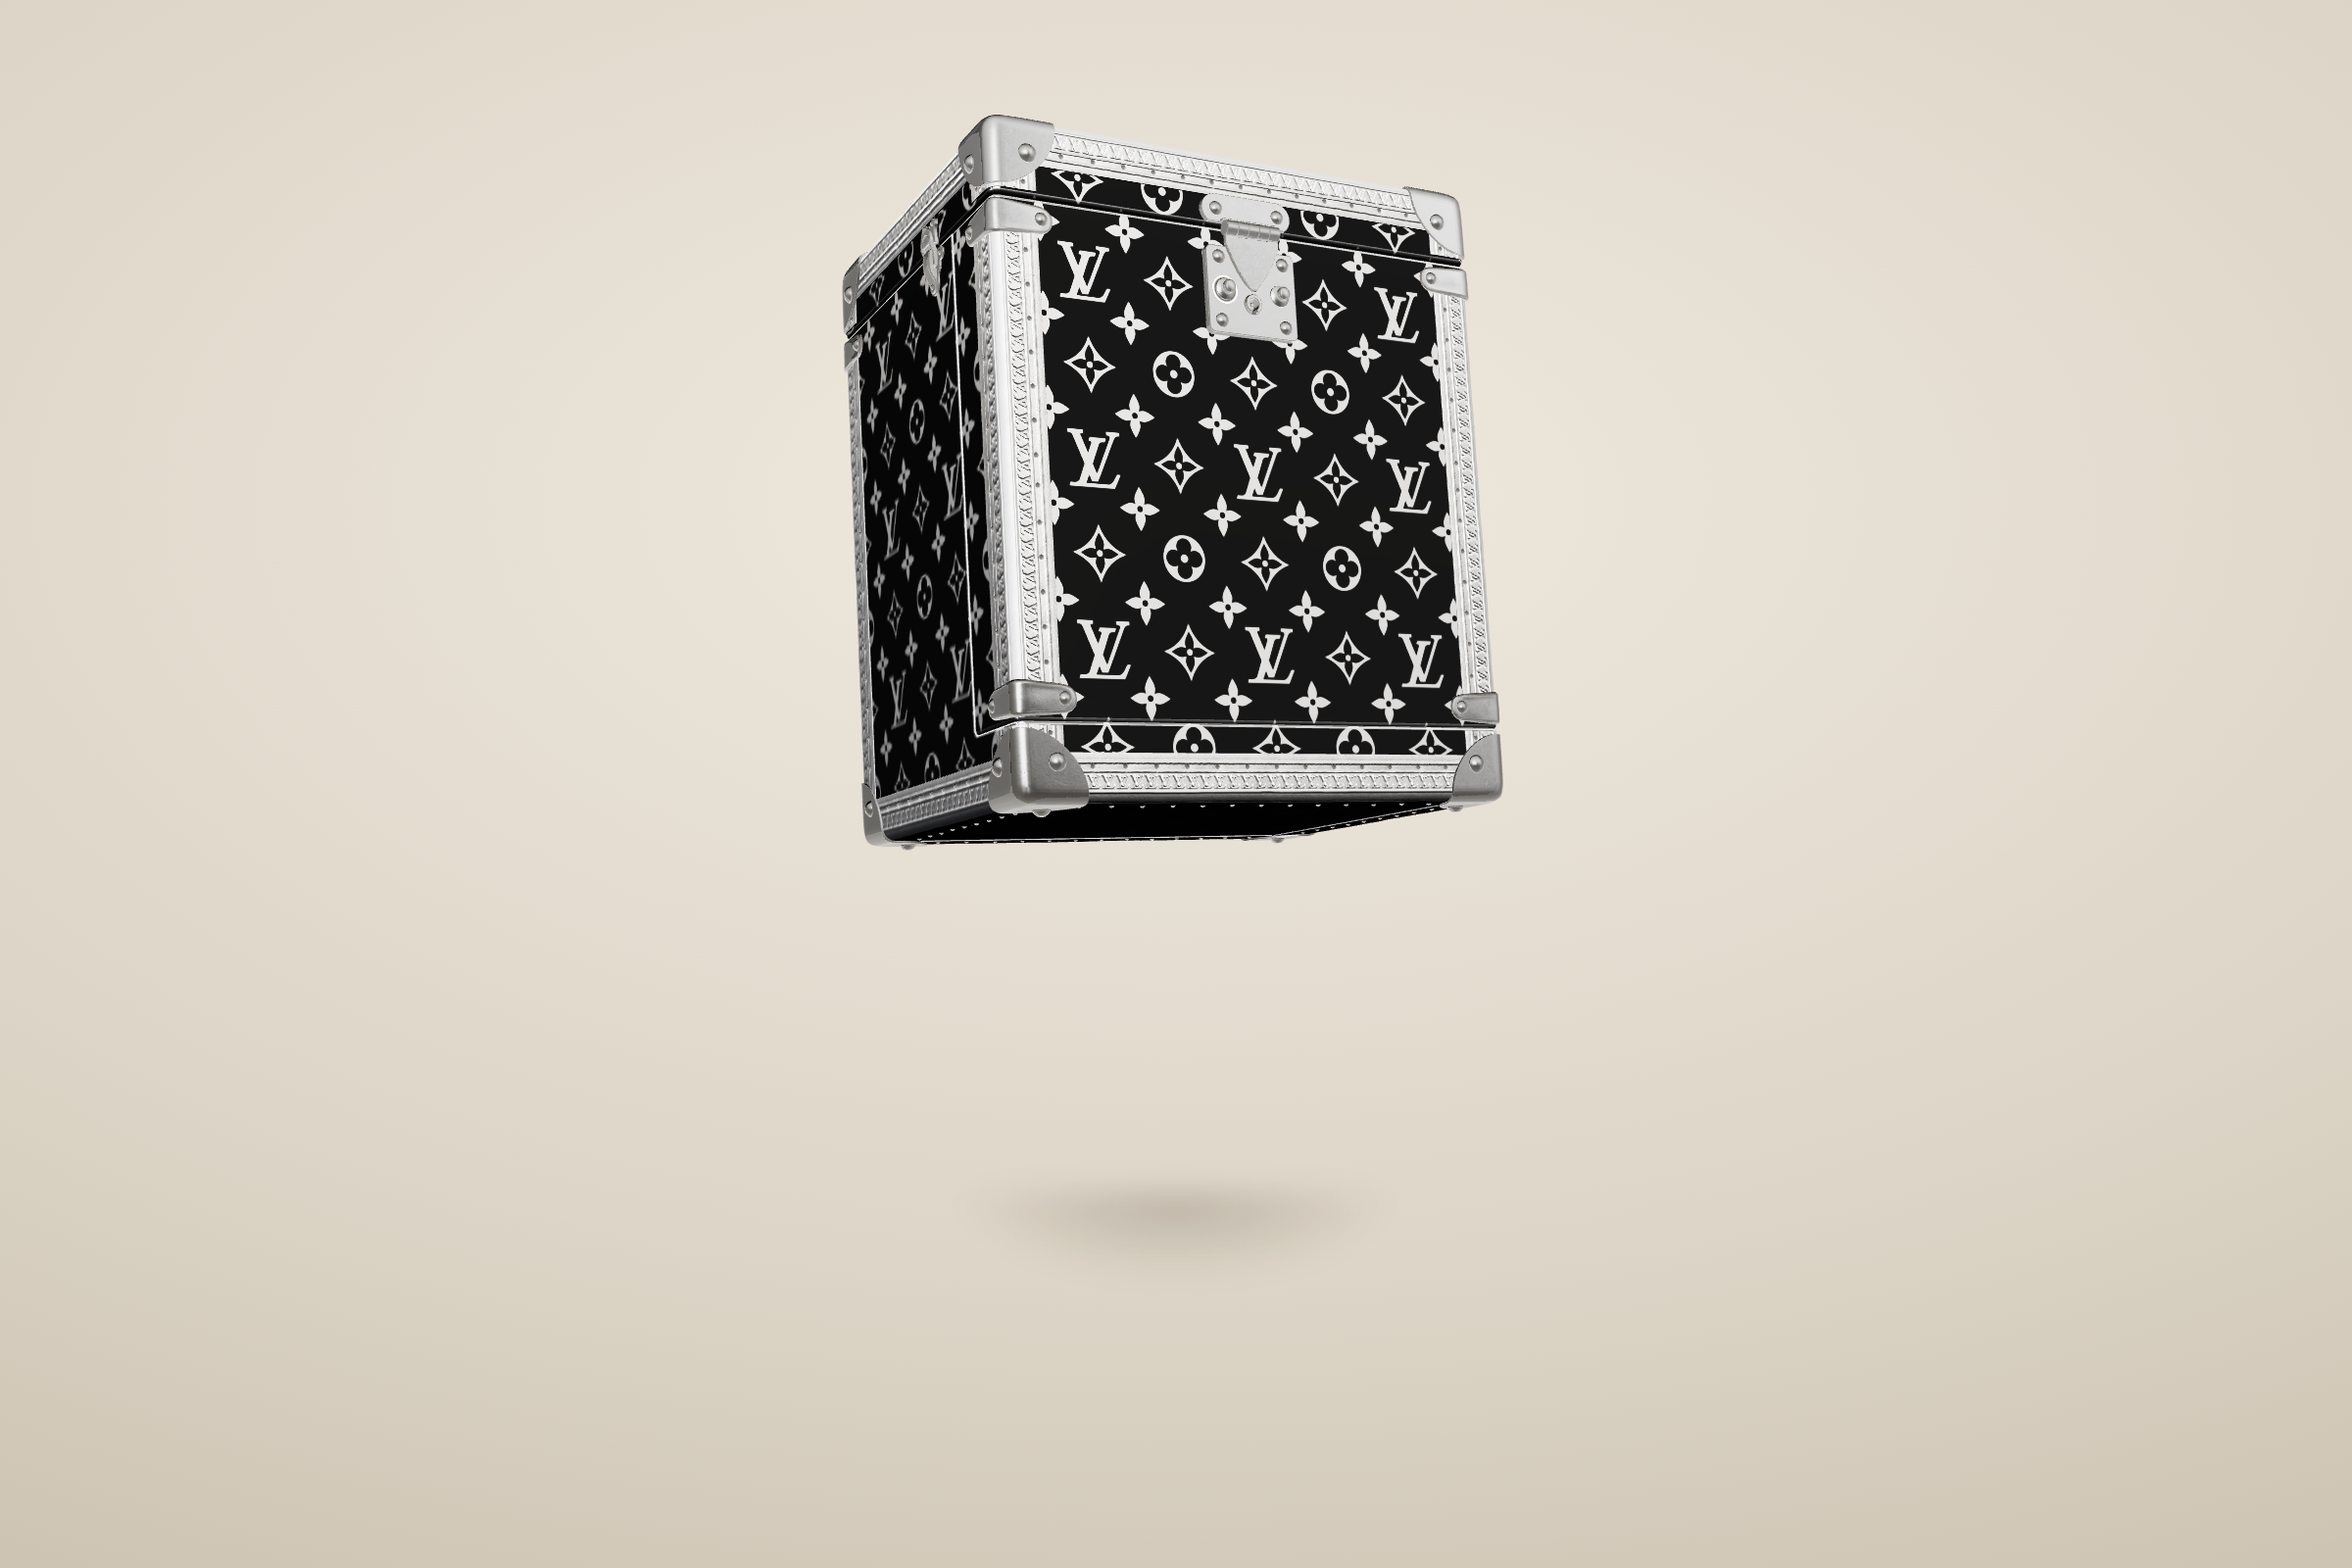
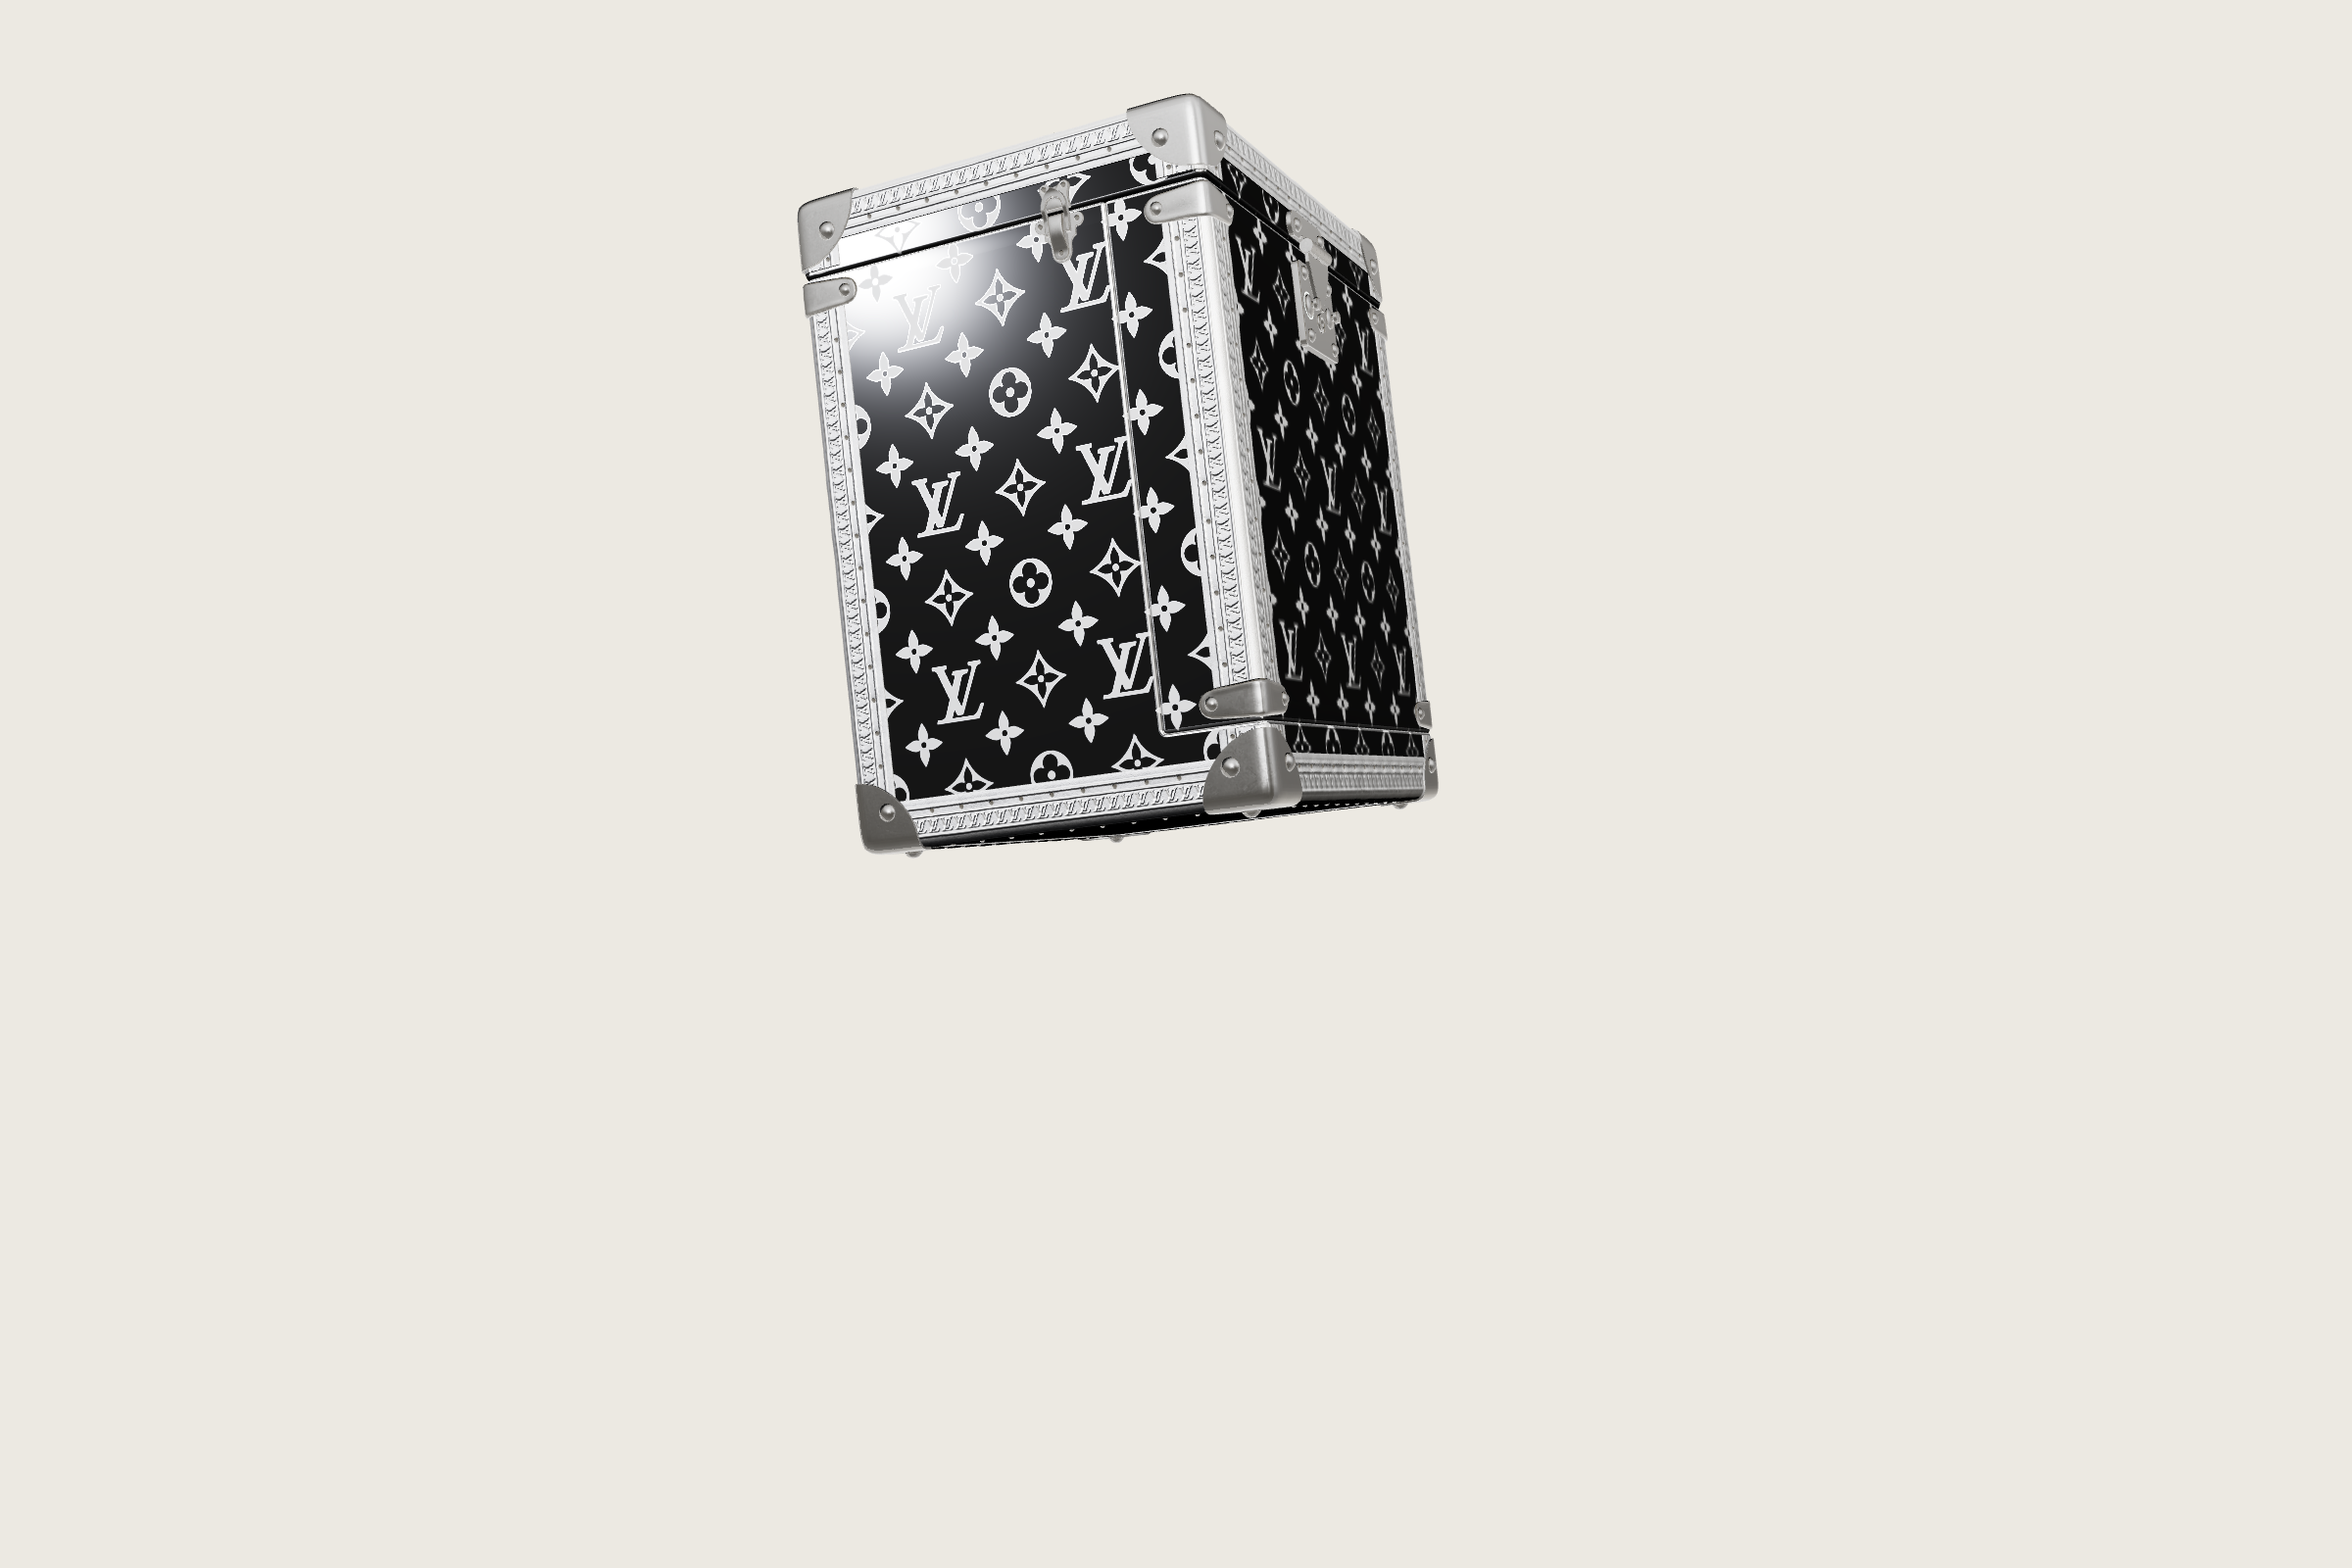
048 LV effect: switch drag-spin -> wheel-scroll rotation (match original)
Replace the drag interaction with the LV experience's native wheel-scroll
behaviour: scroll down accumulates into a target Y angle, exp-damped smooth
follow + a gentle continuous Y idle-spin (the original trunk is always
rotating) + cursor parallax tilt. Strip the decorative gradient/contact-shadow
to a flat neutral — model only, no scene background. meta/tags updated (scroll).

diff --git a/effects/048-lv-collectibles-3d/index.html b/effects/048-lv-collectibles-3d/index.html
@@ -10,25 +10,16 @@
   html, body { width:100%; height:100%; overflow:hidden; }
   body {
     font-family:"Times New Roman", Georgia, serif; color:var(--ink);
-    background:radial-gradient(120% 95% at 50% 32%, #efe9df 0%, #ddd5c7 52%, #c4baa8 100%);
+    background:#ece9e2;            /* clean flat neutral — model only, no scene background */
     -webkit-user-select:none; user-select:none; touch-action:none;
   }
   #stage { position:fixed; inset:0; }
-  canvas { display:block; width:100%; height:100%; cursor:grab; }
-  canvas.grabbing { cursor:grabbing; }
-
-  /* soft contact shadow under the object */
-  #floor {
-    position:fixed; left:50%; bottom:16%; transform:translateX(-50%);
-    width:40vmin; height:8vmin; pointer-events:none;
-    background:radial-gradient(50% 100% at 50% 0%, rgba(40,28,12,.20), rgba(40,28,12,0) 70%);
-    filter:blur(7px);
-  }
+  canvas { display:block; width:100%; height:100%; cursor:default; }
 
   #loader {
     position:fixed; inset:0; display:flex; flex-direction:column; align-items:center;
     justify-content:center; gap:18px; z-index:30; transition:opacity .8s ease;
-    background:radial-gradient(120% 95% at 50% 36%, #efe9df, #c9bfae); letter-spacing:.35em;
+    background:#ece9e2; letter-spacing:.35em;
   }
   #loader.hidden { opacity:0; pointer-events:none; }
   #loader .brand { font-size:clamp(22px,4vw,40px); letter-spacing:.18em; text-transform:uppercase; }
@@ -58,7 +49,6 @@
 </head>
 <body>
   <div id="stage"></div>
-  <div id="floor"></div>
 
   <div class="label" data-demo-only>
     <div class="maison">Louis&nbsp;Vuitton</div>
@@ -70,7 +60,7 @@
     <button id="btnSpeedy">Speedy</button>
   </div>
 
-  <div class="hint" data-demo-only>拖拽旋转 · 松手惯性 · DRAG&nbsp;TO&nbsp;SPIN</div>
+  <div class="hint" data-demo-only>向下滚动旋转 · SCROLL&nbsp;TO&nbsp;ROTATE</div>
 
   <div id="loader">
     <div class="brand">Louis Vuitton</div>
@@ -118,29 +108,18 @@
     // exact damp glue from the Cartier W&W experience: lerp(cur, tgt, 1 - exp(-speed*dt))
     const lerp = (a, b, t) => (1 - t) * a + t * b;
     const damp = (cur, tgt, speed, dt) => lerp(cur, tgt, 1 - Math.exp(-speed * dt));
-    const CFG = { dragSpeed: 0.008, dragLatency: 2, tiltSpeed: 1.5, fovSpeed: 1 };
-    const TAU = Math.PI * 2;
+    // wheel-scroll drives the spin — SAME interaction as the original LV experience:
+    // a continuous Y-axis rotation that the scroll wheel feeds into (smooth-damped follow).
+    const CFG = { scrollK: 0.0026, idleSpin: 0.10, follow: 3.6, tiltSpeed: 1.5 };
 
-    const target = { x: 0, y: 0 }, dragRot = { x: 0, y: 0 }, tiltRot = { x: 0, y: 0 }, ndc = { x: 0, y: 0 };
-    let tiltWeight = 1, undTime = 0, fovOnVel = 0, angVelY = 0, angVelX = 0;
-    let dragging = false, lastX = 0, lastY = 0;
+    const tiltRot = { x: 0, y: 0 }, ndc = { x: 0, y: 0 };
+    let undTime = 0, spinY = 0, targetY = 0;
 
-    const el = renderer.domElement;
-    const setNdc = e => { ndc.x = (e.clientX/window.innerWidth)*2 - 1; ndc.y = -((e.clientY/window.innerHeight)*2 - 1); };
-    el.addEventListener('pointerdown', e => {
-      dragging = true; lastX = e.clientX; lastY = e.clientY; angVelY = angVelX = 0;
-      el.classList.add('grabbing'); el.setPointerCapture(e.pointerId);
-    });
     window.addEventListener('pointermove', e => {
-      setNdc(e); if (!dragging) return;
-      const dx = e.clientX - lastX, dy = e.clientY - lastY; lastX = e.clientX; lastY = e.clientY;
-      target.y += dx * CFG.dragSpeed; target.x += dy * CFG.dragSpeed;
-      target.x = Math.max(-0.9, Math.min(0.9, target.x));
-      angVelY = dx * CFG.dragSpeed; angVelX = dy * CFG.dragSpeed;
+      ndc.x = (e.clientX/window.innerWidth)*2 - 1; ndc.y = -((e.clientY/window.innerHeight)*2 - 1);
     });
-    const endDrag = () => { if (!dragging) return; dragging = false; el.classList.remove('grabbing'); };
-    window.addEventListener('pointerup', endDrag);
-    window.addEventListener('pointercancel', endDrag);
+    // scroll down → rotate forward, scroll up → rotate back
+    window.addEventListener('wheel', e => { targetY += e.deltaY * CFG.scrollK; }, { passive: true });
 
     const draco = new THREE.DRACOLoader().setDecoderPath('lib/').setDecoderConfig({ type:'js' });
     const gltf = new THREE.GLTFLoader().setDRACOLoader(draco);
@@ -185,9 +164,8 @@
         stripBackdrops(current);
         frameModel(current);
         dragWrapper.add(current);
-        target.x = target.y = dragRot.x = dragRot.y = 0;
+        spinY = targetY = 0;
         document.getElementById('modelName').textContent = def.name;
-        target.y = IS_PREVIEW ? 0 : -0.7;
         setTimeout(()=>loaderEl.classList.add('hidden'), 150);
       }, ev => {
         if (ev.total) { const p = Math.round(ev.loaded/ev.total*100); barEl.style.width = p+'%'; pctEl.textContent = p+'%'; }
@@ -205,29 +183,21 @@
     let last = performance.now();
     function tick(now){
       const dt = Math.min((now - last)/1000, 0.05); last = now;
-      if (IS_PREVIEW) target.y += dt * 0.5;
-      if (!dragging && (Math.abs(angVelY) > 1e-5 || Math.abs(angVelX) > 1e-5)) {
-        target.y += angVelY; target.x += angVelX;
-        target.x = Math.max(-0.9, Math.min(0.9, target.x));
-        const decay = Math.exp(-3.0 * dt); angVelY *= decay; angVelX *= decay;
-        if (Math.abs(angVelY) < 1e-5) angVelY = 0; if (Math.abs(angVelX) < 1e-5) angVelX = 0;
-      }
-      target.y %= TAU; target.x %= TAU;
-      dragRot.y = damp(dragRot.y, target.y, CFG.dragLatency, dt);
-      dragRot.x = damp(dragRot.x, target.x, CFG.dragLatency, dt);
-      const tgtTiltY = 0.1 * Math.PI * ndc.x, tgtTiltX = -0.05 * Math.PI * ndc.y;
+      // gentle continuous Y spin (the original trunk is always rotating); preview spins faster
+      targetY += (IS_PREVIEW ? 0.6 : CFG.idleSpin) * dt;
+      // smooth follow toward the scroll-accumulated target angle (the "smooth scroll" feel)
+      spinY = damp(spinY, targetY, CFG.follow, dt);
+      // subtle cursor parallax tilt (like the original's mouse influence)
+      const tgtTiltY = 0.06 * Math.PI * ndc.x, tgtTiltX = -0.04 * Math.PI * ndc.y;
       tiltRot.y = damp(tiltRot.y, tgtTiltY, CFG.tiltSpeed, dt);
       tiltRot.x = damp(tiltRot.x, tgtTiltX, CFG.tiltSpeed, dt);
-      tiltWeight = damp(tiltWeight, dragging ? 0 : 1, 4, dt);
-      dragWrapper.rotation.y = dragRot.y + tiltRot.y * tiltWeight;
-      dragWrapper.rotation.x = dragRot.x + tiltRot.x * tiltWeight;
+      dragWrapper.rotation.y = spinY + tiltRot.y;
+      dragWrapper.rotation.x = tiltRot.x;
+      // idle undulation
       undTime += dt; const o = undTime;
       undulationWrapper.rotation.x = Math.sin(o*0.3)*0.003 + Math.sin(o*0.7)*0.002;
       undulationWrapper.rotation.y = Math.cos(o*0.2)*0.003 + Math.cos(o*0.5)*0.002;
       undulationWrapper.rotation.z = Math.sin(o*0.15)*0.0005;
-      const spin = Math.abs(angVelY) + Math.abs(angVelX);
-      fovOnVel = damp(fovOnVel, Math.min(spin*6, 1), CFG.fovSpeed, dt);
-      if (current && current.userData._baseScale) current.scale.setScalar(current.userData._baseScale * (1 + 0.06 * fovOnVel));
       renderer.render(scene, camera);
       requestAnimationFrame(tick);
     }

diff --git a/effects/effects.js b/effects/effects.js
@@ -920,18 +920,17 @@ window.__EFFECTS__ = [
     "num": "048",
     "folder": "048-lv-collectibles-3d",
     "title": "Louis Vuitton VIA · 3D 藏品旋转",
-    "subtitle": "drag-to-spin Trunk & Speedy · inertia",
-    "description": "把 Louis Vuitton VIA Collectibles 沉浸式体验（louisvuitton-collectibles.imm-g-prod.com，见 designs/047）里的真·3D 藏品模型抽成可拖拽旋转的查看器：标志性 monogram「Treasure Trunk」行李箱 + Speedy 手袋（均为原站 Draco 压缩 GLTF，monogram 帆布 / 皮革 / 金色五金 PBR 材质全保留，可一键切换）。旋转手感 1:1 复用 Cartier Watches & Wonders 那套引擎：拖拽累加目标角（dragSpeed 0.008）+ 帧率无关指数缓动跟随（lerp(a,b,1−e^(−speed·dt))，latency 2）= 顺滑惯性；松手按角速度衰减续转；鼠标视差倾斜（缓动 1.5）；待机多频正弦微浮；旋转速度做缩放呼吸。Three.js r128 + GLTFLoader/DRACOLoader（解压 wasm 自带）+ RoomEnvironment 程序化棚拍环境 + ACESFilmic。包围球自适应取景（旋转不裁切）。完全自闭包，无 CDN。",
+    "subtitle": "scroll-to-rotate Trunk & Speedy",
+    "description": "把 Louis Vuitton VIA Collectibles 沉浸式体验（louisvuitton-collectibles.imm-g-prod.com，见 designs/047）里的真·3D 藏品模型抽出来，**交互方式与原站一致：鼠标滚轮向下滚 → 模型绕 Y 轴旋转**（原站 trunk 就是持续 Y 轴自转 + 滚动驱动，这里 1:1 还原那条轴和手感）。滚动把目标角累加进 targetY，再用帧率无关指数缓动 lerp(a,b,1−e^(−speed·dt)) 平滑跟随（不是离散步进，是连续顺滑的「smooth scroll」感）；叠加一层极轻的持续自转（原站永不静止）+ 鼠标视差微倾斜 + 多频正弦待机微浮。**只留模型、去掉场景背景**（平色背景，无世界/装饰）。模型是原站 Draco 压缩 GLTF（标志性 monogram Treasure Trunk 行李箱 + Speedy 手袋，可切换，PBR 材质全保留）。Three.js r128 + GLTFLoader/DRACOLoader（解压 wasm 自带）+ RoomEnvironment 棚光 + ACESFilmic；包围球自适应取景（旋转不裁切）。完全自闭包，无 CDN。",
     "tech": "Three.js r128 + GLTF/DRACO",
     "tags": [
       "interaction",
+      "scroll",
       "animation",
       "3d",
       "webgl",
       "threejs",
       "gltf-draco",
-      "drag",
-      "inertia",
       "luxury"
     ],
     "previewHref": "index.html",
